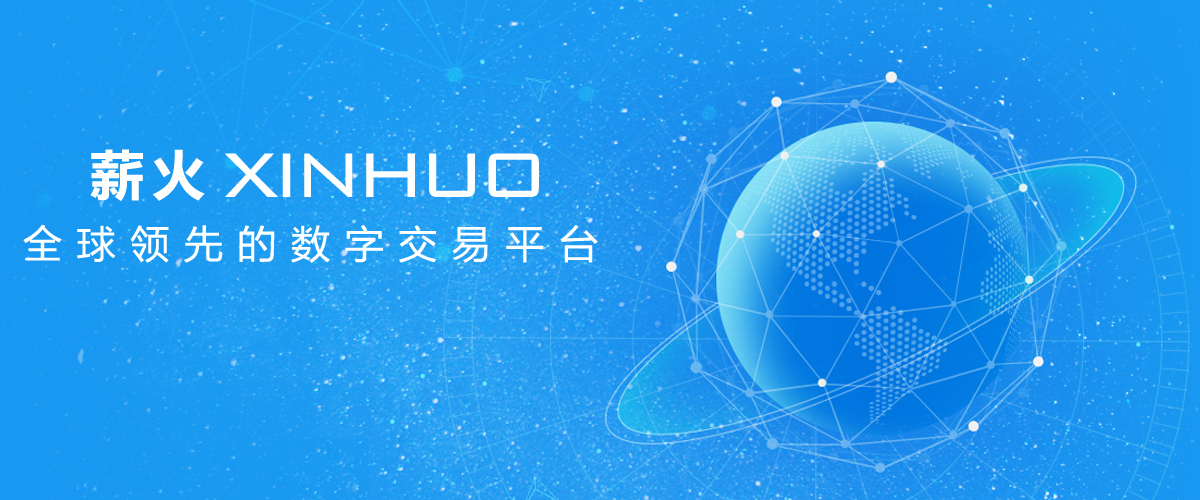
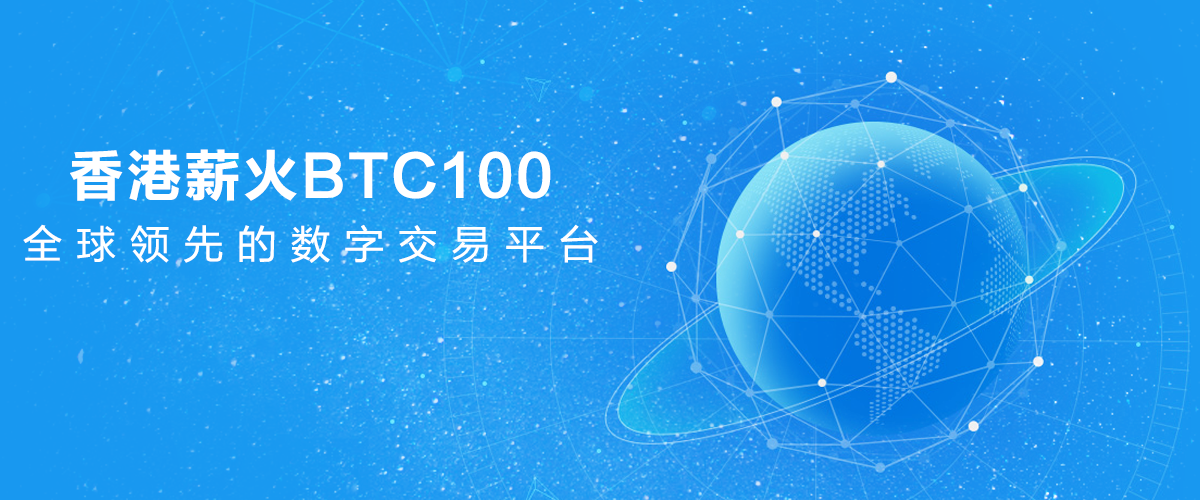
htychange1
1、首页banner图替换
2、交易中心k线请求
3、trading.js方法位置调整

Changed region(s): [[0.0617, 0.3, 0.4625, 0.42], [0.0617, 0.45, 0.0925, 0.51]]

diff --git a/public/js/pages/tradingCenter.js b/public/js/pages/tradingCenter.js
@@ -64,58 +64,78 @@ function calculateMA(dayCount,data) {
   return result;
 }
 
+//活的k线数据
+function getKData(typeN){
+  var resultData = new Array();
+  $.ajax({
+    url:'/transaction/getkdata',
+    data:{type:typeN},
+    type:'get',
+    async:false,
+    success:function(result){
+      console.log(result);   
+      for(var i = 0 ; i < result.data.length ; i++){
+        resultData[i] = [result.data[i].date,Number(result.data[i].open_price),Number(result.data[i].close_price),Number(result.data[i].min),Number(result.data[i].max),parseInt(Math.random()*10000), 0, 0.11, -0.28, -0.34];
+      }
+      
+    }
+  });
+  console.log(resultData);
+  return resultData;
+} 
+
 //数据模型 time0 open1 close2 min3 max4 vol5 tag6 macd7 dif8 dea9
 // 日期 开盘价 收盘价 最低成交价 最高成交价
 //['2015-10-19',18.56,18.25,18.19,18.56,55.00,0,-0.00,0.08,0.09] 
 var cbfdata=splitData([['2018-01-22', 0.20, 0.20, 0.20, 0.20, 0.00, 0, 0.11, -0.28, -0.34]]);
 
-var twdhqdata =splitData([['2016-11-15', 14.5, 14.66, 14.47, 14.82, 19.00, 0, 0.11, -0.28, -0.34],
-                        ['2016-11-16', 14.77, 14.94, 14.72, 15.05, 26.00, 0, 0.14, -0.28, -0.35],
-                        ['2016-11-17', 14.95, 15.03, 14.88,15.07, 38.00, 0, 0.12, -0.31, -0.37],
-                        ['2016-11-18', 14.95, 14.9, 14.87, 15.06, 28.00, 0, 0.07, -0.35, -0.39],
-                        ['2016-11-19', 14.9, 14.75, 14.68, 14.94, 22.00, 0, 0.03, -0.38, -0.40],
-                        ['2016-11-22', 14.88, 15.01, 14.79,15.11, 38.00, 1, 0.01, -0.40, -0.40],
-                        ['2016-11-23', 15.01, 14.83, 14.72, 15.01, 24.00, 0, -0.09, -0.45, -0.40],
-                        ['2016-11-24', 14.75, 14.81, 14.67, 14.87, 21.00, 0, -0.17, -0.48, -0.39],
-                        ['2016-11-25', 14.81, 14.25,14.21, 14.81, 51.00, 1, -0.27, -0.50, -0.37],
-                        ['2016-11-26', 14.35, 14.45, 14.28, 14.57, 28.00, 0, -0.26, -0.46, -0.33],
-                        ['2016-11-29', 14.43, 14.56, 14.04, 14.6, 48.00, 0, -0.25, -0.41, -0.29],
-                        ['2016-12-01', 14.56,14.65, 14.36, 14.78, 32.00, 0, -0.21, -0.36, -0.25],
-                        ['2016-12-02', 14.79, 14.96, 14.72, 14.97, 60.00, 0, -0.13, -0.29, -0.22],
-                        ['2016-12-03', 14.95, 15.15, 14.91, 15.19, 53.00, 1, -0.05, -0.23, -0.21],
-                        ['2016-12-04', 15.14, 15.97, 15.02, 16.02, 164.00, 1, 0.06, -0.17, -0.20],
-                        ['2016-12-07', 15.9, 15.78, 15.65,16.0, 41.00, 0, 0.04, -0.19, -0.21],
-                        ['2016-12-08', 15.78, 15.96, 15.21, 15.99, 45.00, 0, 0.05, -0.19, -0.21],
-                        ['2016-12-09', 15.73, 16.05, 15.41, 16.08, 74.00, 0, 0.03, -0.20, -0.22],
-                        ['2016-12-10', 15.82, 15.66, 15.65,15.98, 19.00, 0, -0.02, -0.23, -0.22],
-                        ['2016-12-11', 15.59, 15.76, 15.42, 15.78, 32.00, 0, 0.01, -0.22, -0.22],
-                        ['2016-12-14', 15.78, 15.72, 15.65, 16.04, 31.00, 0, 0.03, -0.20, -0.22],
-                        ['2016-12-15', 15.81, 15.86,15.6, 15.99, 35.00, 0, 0.10, -0.18, -0.23],
-                        ['2016-12-16', 15.88, 16.42, 15.79, 16.45, 123.00, 0, 0.17, -0.16, -0.24]]);
+// var twdhqdata =splitData([['2016-11-15', 14.5, 14.66, 14.47, 14.82, 19.00, 0, 0.11, -0.28, -0.34],
+//                         ['2016-11-16', 14.77, 14.94, 14.72, 15.05, 26.00, 0, 0.14, -0.28, -0.35],
+//                         ['2016-11-17', 14.95, 15.03, 14.88,15.07, 38.00, 0, 0.12, -0.31, -0.37],
+//                         ['2016-11-18', 14.95, 14.9, 14.87, 15.06, 28.00, 0, 0.07, -0.35, -0.39],
+//                         ['2016-11-19', 14.9, 14.75, 14.68, 14.94, 22.00, 0, 0.03, -0.38, -0.40],
+//                         ['2016-11-22', 14.88, 15.01, 14.79,15.11, 38.00, 1, 0.01, -0.40, -0.40],
+//                         ['2016-11-23', 15.01, 14.83, 14.72, 15.01, 24.00, 0, -0.09, -0.45, -0.40],
+//                         ['2016-11-24', 14.75, 14.81, 14.67, 14.87, 21.00, 0, -0.17, -0.48, -0.39],
+//                         ['2016-11-25', 14.81, 14.25,14.21, 14.81, 51.00, 1, -0.27, -0.50, -0.37],
+//                         ['2016-11-26', 14.35, 14.45, 14.28, 14.57, 28.00, 0, -0.26, -0.46, -0.33],
+//                         ['2016-11-29', 14.43, 14.56, 14.04, 14.6, 48.00, 0, -0.25, -0.41, -0.29],
+//                         ['2016-12-01', 14.56,14.65, 14.36, 14.78, 32.00, 0, -0.21, -0.36, -0.25],
+//                         ['2016-12-02', 14.79, 14.96, 14.72, 14.97, 60.00, 0, -0.13, -0.29, -0.22],
+//                         ['2016-12-03', 14.95, 15.15, 14.91, 15.19, 53.00, 1, -0.05, -0.23, -0.21],
+//                         ['2016-12-04', 15.14, 15.97, 15.02, 16.02, 164.00, 1, 0.06, -0.17, -0.20],
+//                         ['2016-12-07', 15.9, 15.78, 15.65,16.0, 41.00, 0, 0.04, -0.19, -0.21],
+//                         ['2016-12-08', 15.78, 15.96, 15.21, 15.99, 45.00, 0, 0.05, -0.19, -0.21],
+//                         ['2016-12-09', 15.73, 16.05, 15.41, 16.08, 74.00, 0, 0.03, -0.20, -0.22],
+//                         ['2016-12-10', 15.82, 15.66, 15.65,15.98, 19.00, 0, -0.02, -0.23, -0.22],
+//                         ['2016-12-11', 15.59, 15.76, 15.42, 15.78, 32.00, 0, 0.01, -0.22, -0.22],
+//                         ['2016-12-14', 15.78, 15.72, 15.65, 16.04, 31.00, 0, 0.03, -0.20, -0.22],
+//                         ['2016-12-15', 15.81, 15.86,15.6, 15.99, 35.00, 0, 0.10, -0.18, -0.23],
+//                         ['2016-12-16', 15.88, 16.42, 15.79, 16.45, 123.00, 0, 0.17, -0.16, -0.24]]);
 
-var myjfdata=splitData([['2016-11-15', 10, 11, 10, 11, 19.00, 0, 0.11, -0.28, -0.34],
-                        ['2016-11-16', 11, 12.1, 11, 12.1, 26.00, 0, 0.14, -0.28, -0.35],
-                        ['2016-11-17', 12.5, 13.75, 12.5,13.75, 38.00, 0, 0.12, -0.31, -0.37],
-                        ['2016-11-18', 14, 15.4, 14, 15.4, 28.00, 0, 0.07, -0.35, -0.39],
-                        ['2016-11-19', 15.5, 17, 15.5, 17, 22.00, 0, 0.03, -0.38, -0.40],
-                        ['2016-11-22', 17.3, 19, 17.3,19, 38.00, 1, 0.01, -0.40, -0.40],
-                        ['2016-11-23', 19.1, 20, 19.1, 20, 24.00, 0, -0.09, -0.45, -0.40],
-                        ['2016-11-24', 20, 22, 20, 22, 21.00, 0, -0.17, -0.48, -0.39],
-                        ['2016-11-25', 22.2, 24.42,22.2, 24.42, 51.00, 1, -0.27, -0.50, -0.37],
-                        ['2016-11-26', 24.5, 26.9, 24.5, 26.9, 28.00, 0, -0.26, -0.46, -0.33],
-                        ['2016-11-29', 27, 29.7, 27, 29.7, 48.00, 0, -0.25, -0.41, -0.29],
-                        ['2016-12-01', 30,33, 30, 33, 32.00, 0, -0.21, -0.36, -0.25],
-                        ['2016-12-02', 33.5, 36.8, 33.5, 36.8, 60.00, 0, -0.13, -0.29, -0.22],
-                        ['2016-12-03', 37, 40.7, 37, 40.7, 53.00, 1, -0.05, -0.23, -0.21],
-                        ['2016-12-04', 40.7, 44.77, 40.7, 44.77, 164.00, 1, 0.06, -0.17, -0.20],
-                        ['2016-12-07', 45, 49.5, 45,49.5, 41.00, 0, 0.04, -0.19, -0.21],
-                        ['2016-12-08', 50, 55, 50, 55, 45.00, 0, 0.05, -0.19, -0.21],
-                        ['2016-12-09', 55.2, 60.7, 55.2, 60.7, 74.00, 0, 0.03, -0.20, -0.22],
-                        ['2016-12-10', 61, 67.1, 61,67.1, 19.00, 0, -0.02, -0.23, -0.22],
-                        ['2016-12-11', 67, 73.7, 67, 73.7, 32.00, 0, 0.01, -0.22, -0.22],
-                        ['2016-12-14', 74, 81,74, 81, 31.00, 0, 0.03, -0.20, -0.22],
-                        ['2016-12-15', 81, 88.1,81, 88.1, 35.00, 0, 0.10, -0.18, -0.23],
-                        ['2016-12-16', 88, 96, 88, 96, 343.00, 0, 0.17, -0.16, -0.24]]);;
+// var myjfdata=splitData([['2016-11-15', 10, 11, 10, 11, 19.00, 0, 0.11, -0.28, -0.34],
+//                         ['2016-11-16', 11, 12.1, 11, 12.1, 26.00, 0, 0.14, -0.28, -0.35],
+//                         ['2016-11-17', 12.5, 13.75, 12.5,13.75, 38.00, 0, 0.12, -0.31, -0.37],
+//                         ['2016-11-18', 14, 15.4, 14, 15.4, 28.00, 0, 0.07, -0.35, -0.39],
+//                         ['2016-11-19', 15.5, 17, 15.5, 17, 22.00, 0, 0.03, -0.38, -0.40],
+//                         ['2016-11-22', 17.3, 19, 17.3,19, 38.00, 1, 0.01, -0.40, -0.40],
+//                         ['2016-11-23', 19.1, 20, 19.1, 20, 24.00, 0, -0.09, -0.45, -0.40],
+//                         ['2016-11-24', 20, 22, 20, 22, 21.00, 0, -0.17, -0.48, -0.39],
+//                         ['2016-11-25', 22.2, 24.42,22.2, 24.42, 51.00, 1, -0.27, -0.50, -0.37],
+//                         ['2016-11-26', 24.5, 26.9, 24.5, 26.9, 28.00, 0, -0.26, -0.46, -0.33],
+//                         ['2016-11-29', 27, 29.7, 27, 29.7, 48.00, 0, -0.25, -0.41, -0.29],
+//                         ['2016-12-01', 30,33, 30, 33, 32.00, 0, -0.21, -0.36, -0.25],
+//                         ['2016-12-02', 33.5, 36.8, 33.5, 36.8, 60.00, 0, -0.13, -0.29, -0.22],
+//                         ['2016-12-03', 37, 40.7, 37, 40.7, 53.00, 1, -0.05, -0.23, -0.21],
+//                         ['2016-12-04', 40.7, 44.77, 40.7, 44.77, 164.00, 1, 0.06, -0.17, -0.20],
+//                         ['2016-12-07', 45, 49.5, 45,49.5, 41.00, 0, 0.04, -0.19, -0.21],
+//                         ['2016-12-08', 50, 55, 50, 55, 45.00, 0, 0.05, -0.19, -0.21],
+//                         ['2016-12-09', 55.2, 60.7, 55.2, 60.7, 74.00, 0, 0.03, -0.20, -0.22],
+//                         ['2016-12-10', 61, 67.1, 61,67.1, 19.00, 0, -0.02, -0.23, -0.22],
+//                         ['2016-12-11', 67, 73.7, 67, 73.7, 32.00, 0, 0.01, -0.22, -0.22],
+//                         ['2016-12-14', 74, 81,74, 81, 31.00, 0, 0.03, -0.20, -0.22],
+//                         ['2016-12-15', 81, 88.1,81, 88.1, 35.00, 0, 0.10, -0.18, -0.23],
+//                         ['2016-12-16', 88, 96, 88, 96, 343.00, 0, 0.17, -0.16, -0.24]]);;
 
 var qrtbdata=splitData([['2016-11-15', 42, 42, 42, 42, 0.00, 0, 0.11, -0.28, -0.34],
                         ['2016-11-16',  42, 42, 42, 42, 0.00,0, 0.14, -0.28, -0.35],
@@ -140,6 +160,11 @@ var qrtbdata=splitData([['2016-11-15', 42, 42, 42, 42, 0.00, 0, 0.11, -0.28, -0.
                         ['2016-12-14',  42, 42, 42, 42, 0.00, 0, 0.03, -0.20, -0.22],
                         ['2016-12-15',  42, 42, 42, 42, 0.00, 0, 0.10, -0.18, -0.23],
                         ['2016-12-16',  42, 42, 42, 42, 0.00, 0, 0.17, -0.16, -0.24]]);
+
+var twdhqdata = splitData(getKData(1));
+var myjfdata = splitData(getKData(2));
+
+// 活的
 
 var cbfcharts = {
   title: {

diff --git a/public/js/pages/trading.js b/public/js/pages/trading.js
@@ -1,3 +1,123 @@
+
+/**
+ * 获取委托数据，切换币种和卖出或者卖出都需要重新执行
+ */
+function getGuadanData(){
+    var type = $(".showChartName").attr("currency");
+    $.get('/transaction/getGuadanData',{
+        type:type
+    },function(json){
+        if(json.code=='0000'){
+            if(json.data.length > 0){
+                var items = json.data;
+                var html = '';
+                for (var i = 0; i< items.length; i++){
+                    var item = items[i];
+                    html += `<tr>
+                                <td>${item.time}</td>
+                                <td class="${item.type == 1 ? 'buyType' : 'saleType'}">${item.type == 1 ? '买入' : '卖出'}</td>
+                                <td>${item.price}</td>
+                                <td>${item.number}</td>
+                                <td>${item.number - item.surplus_number}</td>
+                                <td>${item.surplus_number}</td>
+                                <td>
+                                    <input id="${item.id}" type="button" value="撤单">
+                                </td>
+                            </tr>`;
+                }
+                $(".guadan").nextAll().remove().end().after(html);
+            }
+            setTimeout("getGuadanData()",3000)
+        }
+    })
+}
+getGuadanData();
+
+/**
+ * 成交记录数据，切换币种和卖出或者卖出都需要重新执行
+ */
+function getOrder(){
+    var type = $(".showChartName").attr("currency");
+    $.get('/transaction/getOrder',{
+        type:type
+    },function(json){
+        if(json.code=='0000'){
+            if(json.data.length > 0){
+                var items = json.data;
+                var html = '';
+                for (var i = 0; i< items.length; i++){
+                    var item = items[i];
+                    html += ` <tr>
+                        <td>${item.price}</td>
+                        <td>${item.number}</td>
+                        <td>${item.total_price}</td>
+                        <td>${item.time}</td>
+                    </tr>`;
+                }
+                $(".order").nextAll().remove().end().after(html);
+            }
+            setTimeout("getOrder()",2000)
+        }
+    })
+}
+getOrder();
+
+/**
+ * 成交理事委托信息数据，切换币种和卖出或者卖出都需要重新执行
+ */
+function getAllGuadan(){
+    var type = $(".showChartName").attr("currency");
+    $.get('/transaction/getAllGuandan',{
+        type:type
+    },function(json){
+        if(json.code=='0000'){
+            var items;
+            var html = '';
+            if(json.data.buy.length > 0){
+                items = json.data.buy;
+                for (var i = 0; i< items.length; i++){
+                    var item = items[i];
+                    html += `<tr class="saleRow">
+                        <td class="redWord">买${i+1}</td>
+                        <td>${item.price}</td>
+                        <td>${item.surplus_number}</td>
+                        <td>${item.time}</td>
+                    </tr>`;
+                }
+            }
+            if(json.data.sale.length > 0){
+                items = json.data.sale;
+                for(var i = 0;i < items.length; i++){
+                    html += `<tr class="saleRow">
+                        <td class="greenWord">卖${i+1}</td>
+                        <td>${item.price}</td>
+                        <td>${item.surplus_number}</td>
+                        <td>${item.time}</td>
+                    </tr>`;
+                }
+            }
+            $(".allguandan").nextAll().remove().end().after(html);
+            setTimeout("getAllGuadan()",2000)
+        }
+    })
+}
+getAllGuadan();
+
+
+function changeCharts(chart_i,chartName){
+    $('.showChartName').text($('.coinOptionBlock li').eq(chart_i).text());
+    $('.showChartName').attr('currency',$('.coinOptionBlock li').eq(chart_i).data('id'));
+    $('.coinInfoBlock').hide();
+    $('.coinInfoBlock').eq(chart_i).show();
+    // 基于准备好的dom，初始化echarts实例
+    var myChart = echarts.init(document.getElementById('tradingCenterCharts'));
+    // 使用刚指定的配置项和数据显示图表。
+    myChart.setOption(chartName);
+    getGuadanData();
+    getOrder();
+    getAllGuadan();
+}
+
 $(function(){
     // 基于准备好的dom，初始化echarts实例
     var myChart = echarts.init(document.getElementById('tradingCenterCharts'));
@@ -174,121 +294,3 @@ $(function(){
         });
     });
 });
-
-/**
- * 获取委托数据，切换币种和卖出或者卖出都需要重新执行
- */
-function getGuadanData(){
-    var type = $(".showChartName").attr("currency");
-    $.get('/transaction/getGuadanData',{
-        type:type
-    },function(json){
-        if(json.code=='0000'){
-            if(json.data.length > 0){
-                var items = json.data;
-                var html = '';
-                for (var i = 0; i< items.length; i++){
-                    var item = items[i];
-                    html += `<tr>
-                                <td>${item.time}</td>
-                                <td class="${item.type == 1 ? 'buyType' : 'saleType'}">${item.type == 1 ? '买入' : '卖出'}</td>
-                                <td>${item.price}</td>
-                                <td>${item.number}</td>
-                                <td>${item.number - item.surplus_number}</td>
-                                <td>${item.surplus_number}</td>
-                                <td>
-                                    <input id="${item.id}" type="button" value="撤单">
-                                </td>
-                            </tr>`;
-                }
-                $(".guadan").nextAll().remove().end().after(html);
-            }
-            setTimeout("getGuadanData()",3000)
-        }
-    })
-}
-getGuadanData();
-
-/**
- * 成交记录数据，切换币种和卖出或者卖出都需要重新执行
- */
-function getOrder(){
-    var type = $(".showChartName").attr("currency");
-    $.get('/transaction/getOrder',{
-        type:type
-    },function(json){
-        if(json.code=='0000'){
-            if(json.data.length > 0){
-                var items = json.data;
-                var html = '';
-                for (var i = 0; i< items.length; i++){
-                    var item = items[i];
-                    html += ` <tr>
-                        <td>${item.price}</td>
-                        <td>${item.number}</td>
-                        <td>${item.total_price}</td>
-                        <td>${item.time}</td>
-                    </tr>`;
-                }
-                $(".order").nextAll().remove().end().after(html);
-            }
-            setTimeout("getOrder()",2000)
-        }
-    })
-}
-getOrder();
-
-/**
- * 成交理事委托信息数据，切换币种和卖出或者卖出都需要重新执行
- */
-function getAllGuadan(){
-    var type = $(".showChartName").attr("currency");
-    $.get('/transaction/getAllGuandan',{
-        type:type
-    },function(json){
-        if(json.code=='0000'){
-            var items;
-            var html = '';
-            if(json.data.buy.length > 0){
-                items = json.data.buy;
-                for (var i = 0; i< items.length; i++){
-                    var item = items[i];
-                    html += `<tr class="saleRow">
-                        <td class="redWord">买${i+1}</td>
-                        <td>${item.price}</td>
-                        <td>${item.surplus_number}</td>
-                        <td>${item.time}</td>
-                    </tr>`;
-                }
-            }
-            if(json.data.sale.length > 0){
-                items = json.data.sale;
-                for(var i = 0;i < items.length; i++){
-                    html += `<tr class="saleRow">
-                        <td class="greenWord">卖${i+1}</td>
-                        <td>${item.price}</td>
-                        <td>${item.surplus_number}</td>
-                        <td>${item.time}</td>
-                    </tr>`;
-                }
-            }
-            $(".allguandan").nextAll().remove().end().after(html);
-            setTimeout("getAllGuadan()",2000)
-        }
-    })
-}
-getAllGuadan();
-
-function changeCharts(chart_i,chartName){
-    $('.showChartName').text($('.coinOptionBlock li').eq(chart_i).text());
-    $('.showChartName').attr('currency',$('.coinOptionBlock li').eq(chart_i).data('id'));
-    $('.coinInfoBlock').hide();
-    $('.coinInfoBlock').eq(chart_i).show();
-    // 基于准备好的dom，初始化echarts实例
-    var myChart = echarts.init(document.getElementById('tradingCenterCharts'));
-    // 使用刚指定的配置项和数据显示图表。
-    myChart.setOption(chartName);
-    getGuadanData();
-    getOrder();
-    getAllGuadan();
-}
